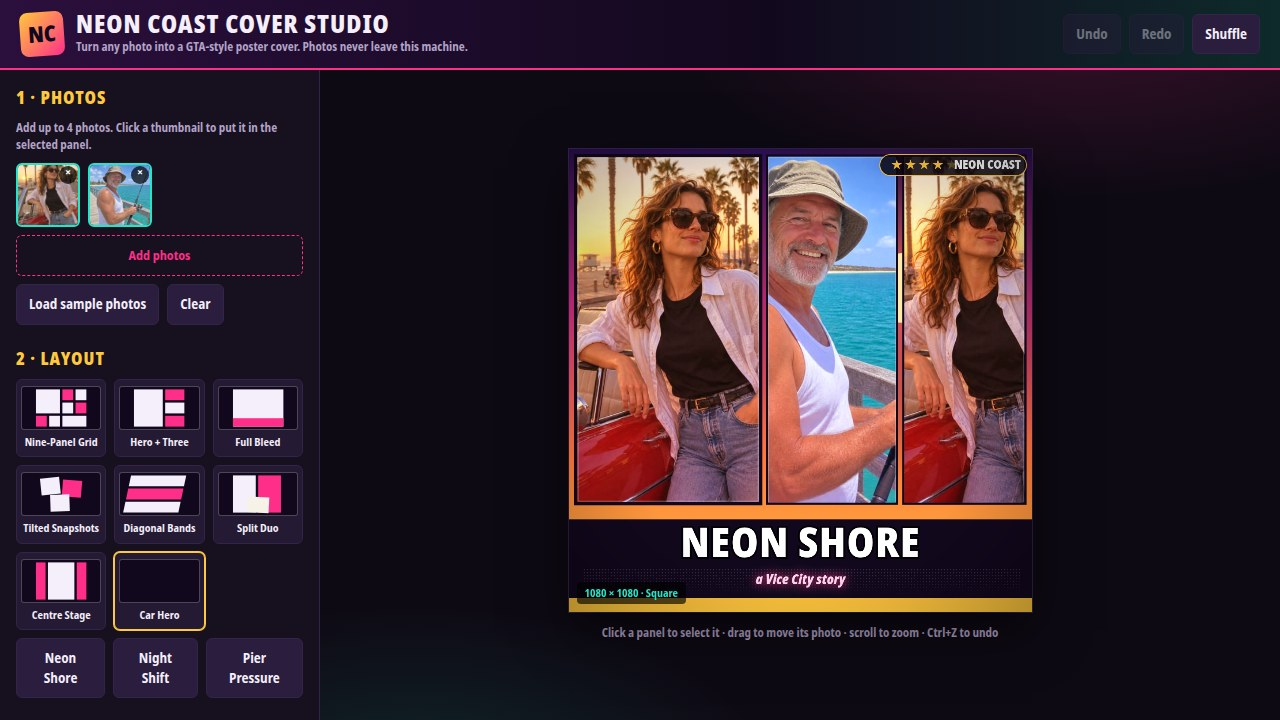
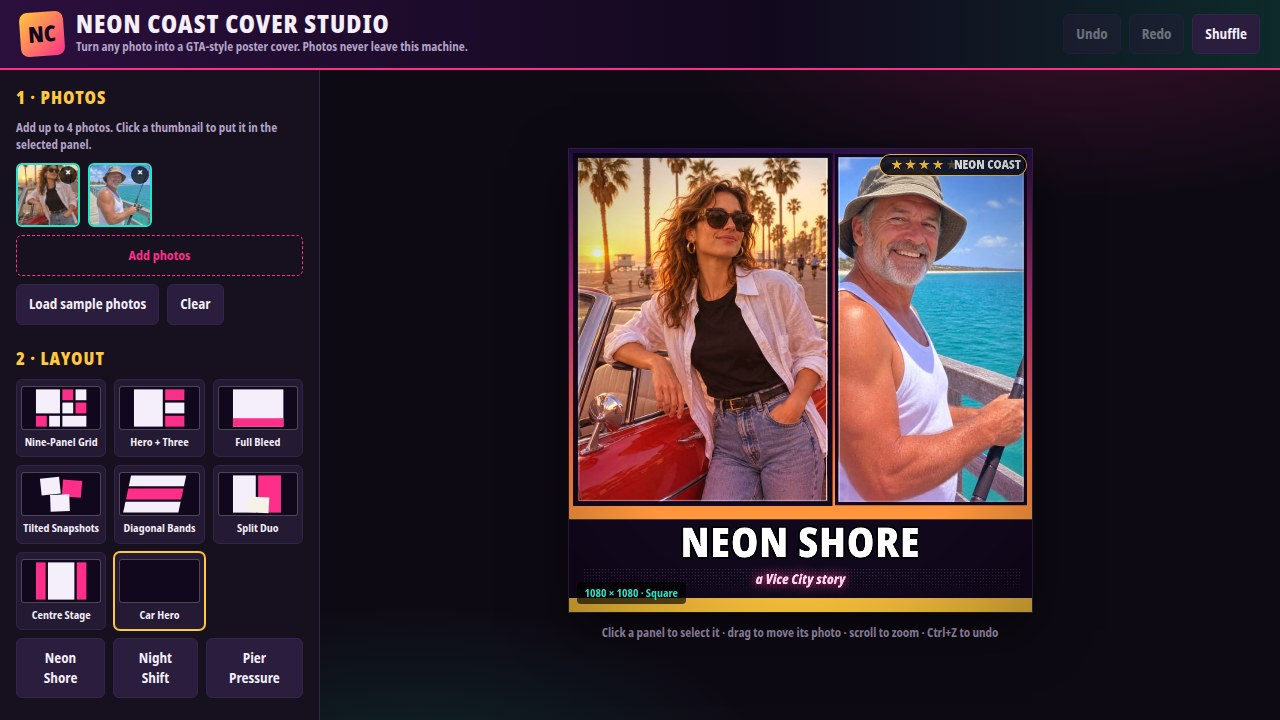
Car Hero cover: 2 boxes — drop the second woman panel (legs cut off)

Changed region(s): [[0.4375, 0.2139, 0.8125, 0.7028]]

diff --git a/app/src/layouts.js b/app/src/layouts.js
@@ -149,13 +149,12 @@ export const LAYOUTS = [
       const top = 0.78;
       const h = top - g * 2;
       // One big hero panel (the boulevard photo: near-square, so the red
-      // convertible and the face both survive the crop) plus two tall
-      // side panels. Three boxes total.
+      // convertible and the face both survive the crop) plus one tall
+      // side panel. Two boxes total.
       return {
         slots: [
-          slot('hero', g, g, 0.40, h, { photo: 0 }),
-          slot('b', 0.428, g, 0.28, h, { photo: 1 }),
-          slot('c', 0.722, g, 0.264, h, { photo: 0 }),
+          slot('hero', g, g, 0.55, h, { photo: 0 }),
+          slot('b', 0.578, g, 0.408, h, { photo: 1 }),
         ],
         title: bandedTitle(0.80, 0.17),
       };
